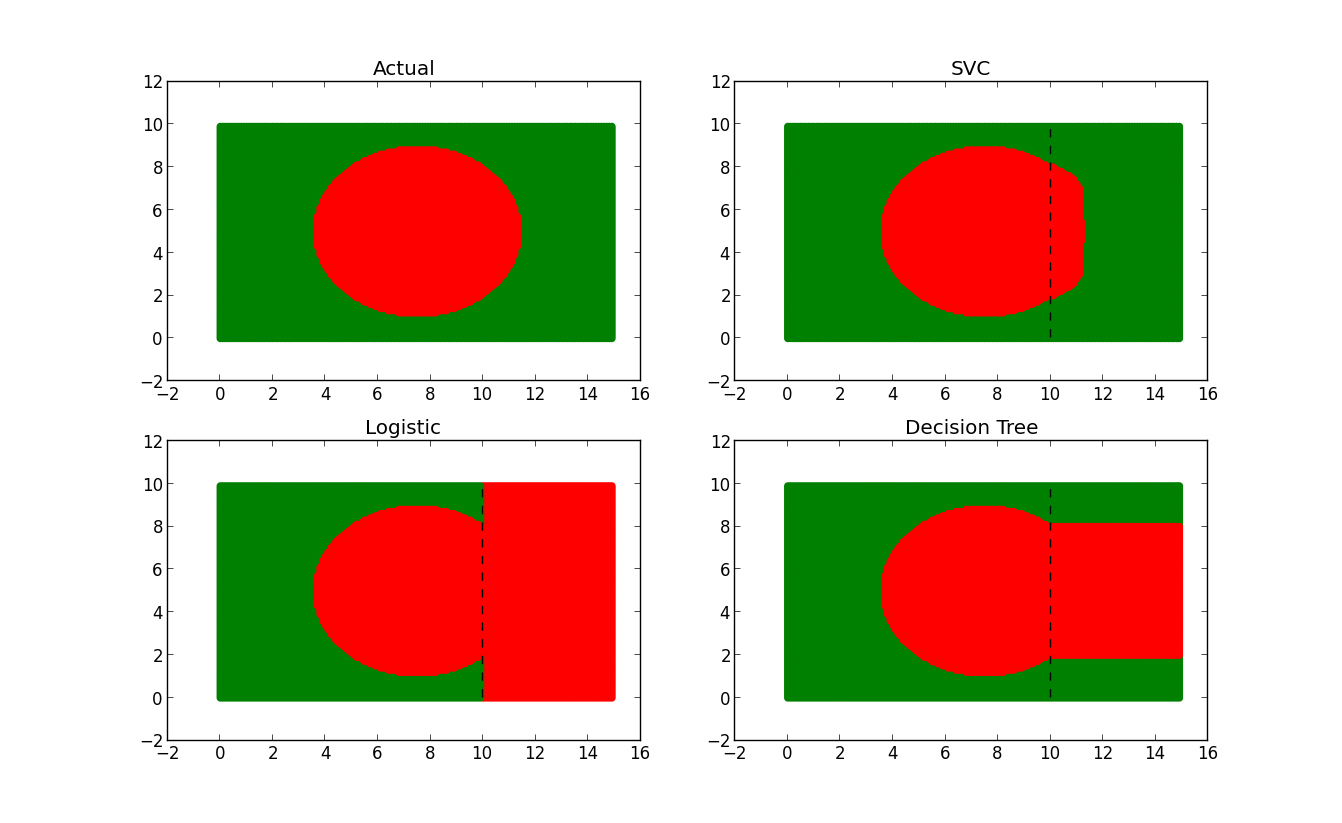
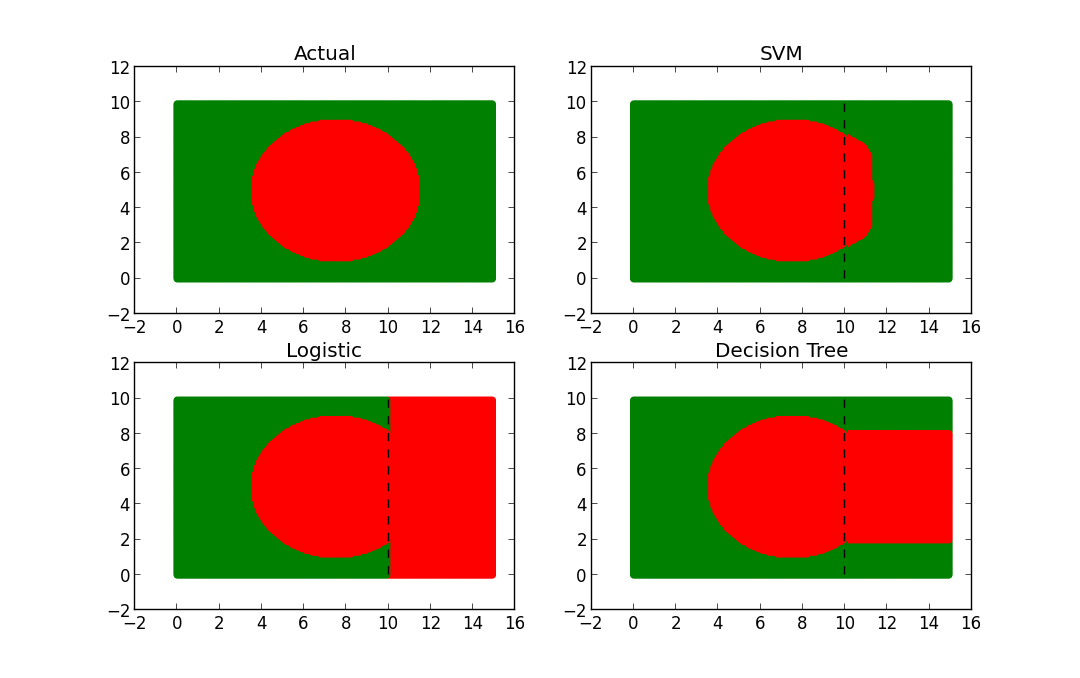
updated post

diff --git a/pages/posts/why-use-svm.html b/pages/posts/why-use-svm.html
@@ -11,12 +11,12 @@ date: 23-12-2012
 <p>Support Vector Machine has become an extremely popular algorithm. In this post I try to give a simple explanation for how it works and give a few examples using the the Python Scikits libraries. All code is available on Github. I'll have another post on the details of using Scikits and Sklearn.</p>
 
 <h3>What is SVM?</h3>
-<p>SVM is a supervised machine learning algorithm which can be used for classification or regression problems. It uses a technique called the kernel trick to transform your data and then based on these transformations it finds an optimal boundary between the possible outputs. Simply put, it does some extremely complex data transformations, then figures out how to seperate your data into the labels or outputs you've defined. 
+<p>SVM is a supervised machine learning algorithm which can be used for classification or regression problems. It uses a technique called the kernel trick to transform your data and then based on these transformations it finds an optimal boundary between the possible outputs. Simply put, it does some extremely complex data transformations, then figures out how to seperate your data based on the labels or outputs you've defined. 
 </p>
 
 <h3>So what makes it so great?</h3>
 <p>
-Well SVM it capable of doing both classification and regression. It's proven to be one of the best classification algorithms. In this post I'll focus on using SVM for classification. In particular I'll be focusing on non-linear SVM, or SVM using a non-linear kernel. Non-linear SVM means that the boundary that the algorithm calculates doesn't have to be a straight line. The benefit is that you can capture much more complex relationships between your datapoints. The downside is that the training time is much longer as it's much more computationally intensive.
+Well SVM it capable of doing both classification and regression. In this post I'll focus on using SVM for classification. In particular I'll be focusing on non-linear SVM, or SVM using a non-linear kernel. Non-linear SVM means that the boundary that the algorithm calculates doesn't have to be a straight line. The benefit is that you can capture much more complex relationships between your datapoints without having to perform difficult transformations on your own. The downside is that the training time is much longer as it's much more computationally intensive.
 </p>
 
 <h3>Cows and Wolves</h3>
@@ -31,7 +31,7 @@ For a second, pretend you're a farmer and you have a problem--you need to setup 
 <a href="../static/img/02/cows_and_wolves.png" title="Open picture in new window" target="_blank">
 	<img src="../static/img/02/cows_and_wolves.png" style="height:100%; width:100%;">
 </a>
-<p>Code for generating the plots found here: <a href="https://gist.github.com/4365660">gist</a></p>
+<p>Code for generating the plots found here: <a href="https://gist.github.com/4365660" target="_blank">gist</a></p>
 
 <h3>Let SVM do the hard work</h3>
 <p>
@@ -58,11 +58,11 @@ What would happen if somehow we lost 1/3 of our data. What if we couldn't recove
 	<img src="../static/img/02/flag.png" style="height:100%; width:100%;">
 </a>
 
-<p>Code for generating the plots found here: <a href="https://gist.github.com/4365631">gist</a></p>
+<p>Code for generating the plots found here: <a href="https://gist.github.com/4365631" target="_blank">gist</a></p>
 
 <h3>Results</h3>
 <p>
-From the plots, it's pretty clear that SVM is the winner. But why? Well if you look at the predicted shapes of the decision tree and GLM models, what do you notice? Straight boundaries. Our input model did not include any transformations to account for the non-linear relationship between x, y, and the color. Given a specific set of transformations we definitely could have made GLM and the DT perform better, but why waste time? With no complex transformations or scaling, SVM only misclassified 157/2100 points (93% accuracy as opposed to DT-57% and GLM-18%! Of those all misclassified points were red--hence the slight bulge.
+From the plots, it's pretty clear that SVM is the winner. But why? Well if you look at the predicted shapes of the decision tree and GLM models, what do you notice? Straight boundaries. Our input model did not include any transformations to account for the non-linear relationship between x, y, and the color. Given a specific set of transformations we definitely could have made GLM and the DT perform better, but why waste time? With no complex transformations or scaling, SVM only misclassified 117/5000 points (98% accuracy as opposed to DT-51% and GLM-12%! Of those all misclassified points were red--hence the slight bulge.
 </p>
 
 <h3>When not to use it</h3>

diff --git a/pages/index.html b/pages/index.html
@@ -3,7 +3,6 @@
 <div>
 	<h1>The Yaksis</h1>
 	<h2><i>Bovine cartesianous</i></h2>
-	<h3>Where Himalayan bovines meet cartesian coordinates.</h3>
 	<img src="static/img/theyaksis_graph.png" style="height:80%;width:80%;">
 </div>
 <div>

diff --git a/postcode/why-svm/farmer.py b/postcode/why-svm/farmer.py
@@ -53,7 +53,7 @@ df['animal_type'] = df.animal.apply(lambda x: 0 if x=="x" else 1)
 train_cols = ["x", "y"]
 
 clfs = {
-    "SVC": svm.SVC(),
+    "SVM": svm.SVC(),
     "Logistic" : linear_model.LogisticRegression(),
     "Decision Tree": tree.DecisionTreeClassifier(),
 }

diff --git a/postcode/why-svm/flag.py b/postcode/why-svm/flag.py
@@ -48,7 +48,7 @@ print "Test Set Size: %d" % len(test)
 cols = ["x", "y"]
 
 clfs = {
-    "SVC": svm.SVC(degree=0.5),
+    "SVM": svm.SVC(degree=0.5),
     "Logistic" : linear_model.LogisticRegression(),
     "Decision Tree": tree.DecisionTreeClassifier()
 }
